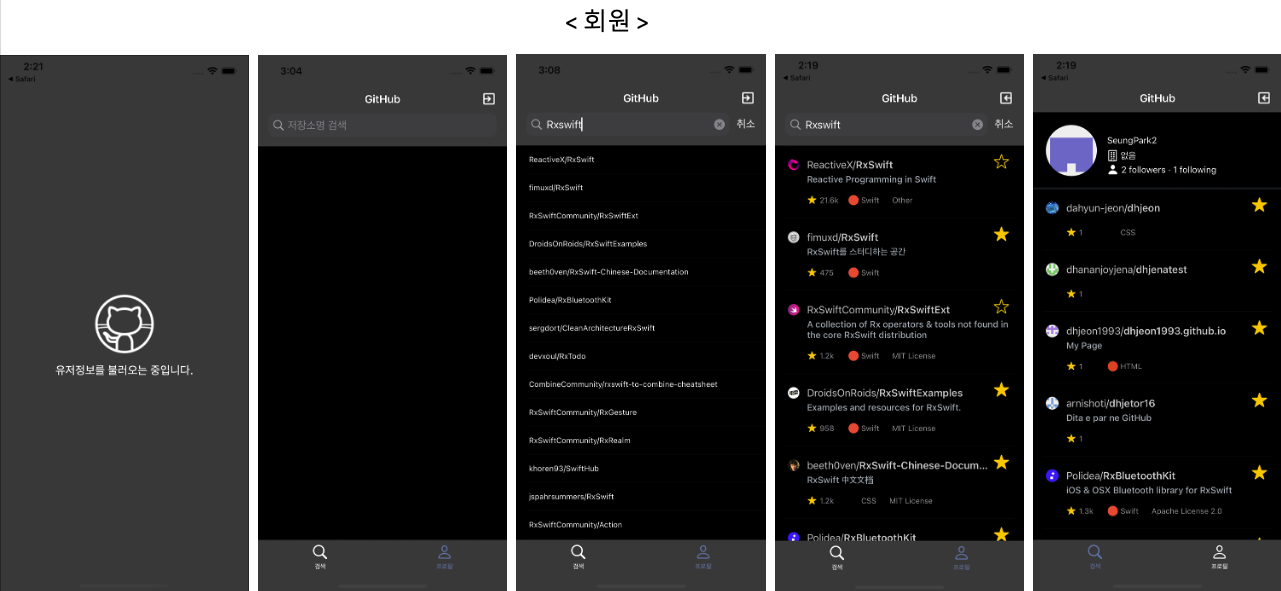
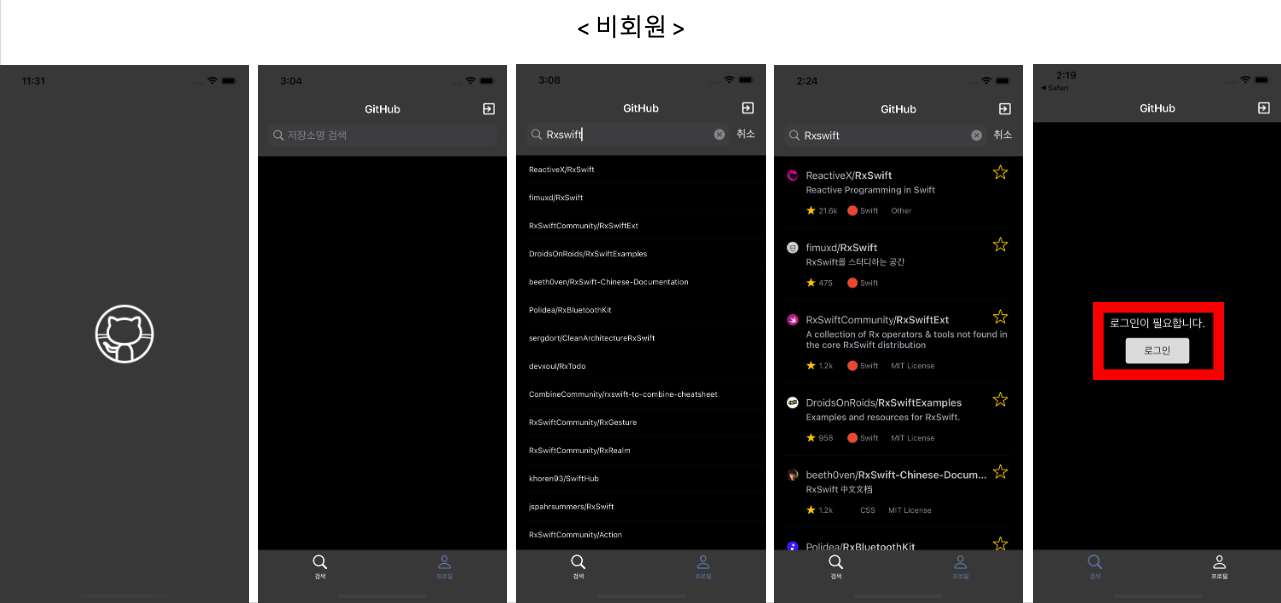
image file update

diff --git a/GithubSearchClone/Model/UserInfo.swift b/GithubSearchClone/Model/UserInfo.swift
@@ -73,8 +73,8 @@ class UserInfo {
                                    with: Root.login +
                                          Root.oauth +
                                          EndPoint.accessToken,
-                                   params: ["client_id": "",
-                                            "client_secret": "",
+                                   params: ["client_id": "3669b2d1f5122ce49bbe",
+                                            "client_secret": "d5f08702a7541b2d7e05f5f8ba70ff84a4442277",
                                             "code": code],
                                    httpMethod: .post)
             .subscribe(
@@ -115,7 +115,7 @@ class UserInfo {
         let urlString = Server.github +
                         Root.login +
                         Root.oauth +
-                        EndPoint.authorize + "?client_id=\("")&scope=\(scope)"
+                        EndPoint.authorize + "?client_id=\("3669b2d1f5122ce49bbe")&scope=\(scope)"
         
         if let url = URL(string: urlString),
            UIApplication.shared.canOpenURL(url) {
